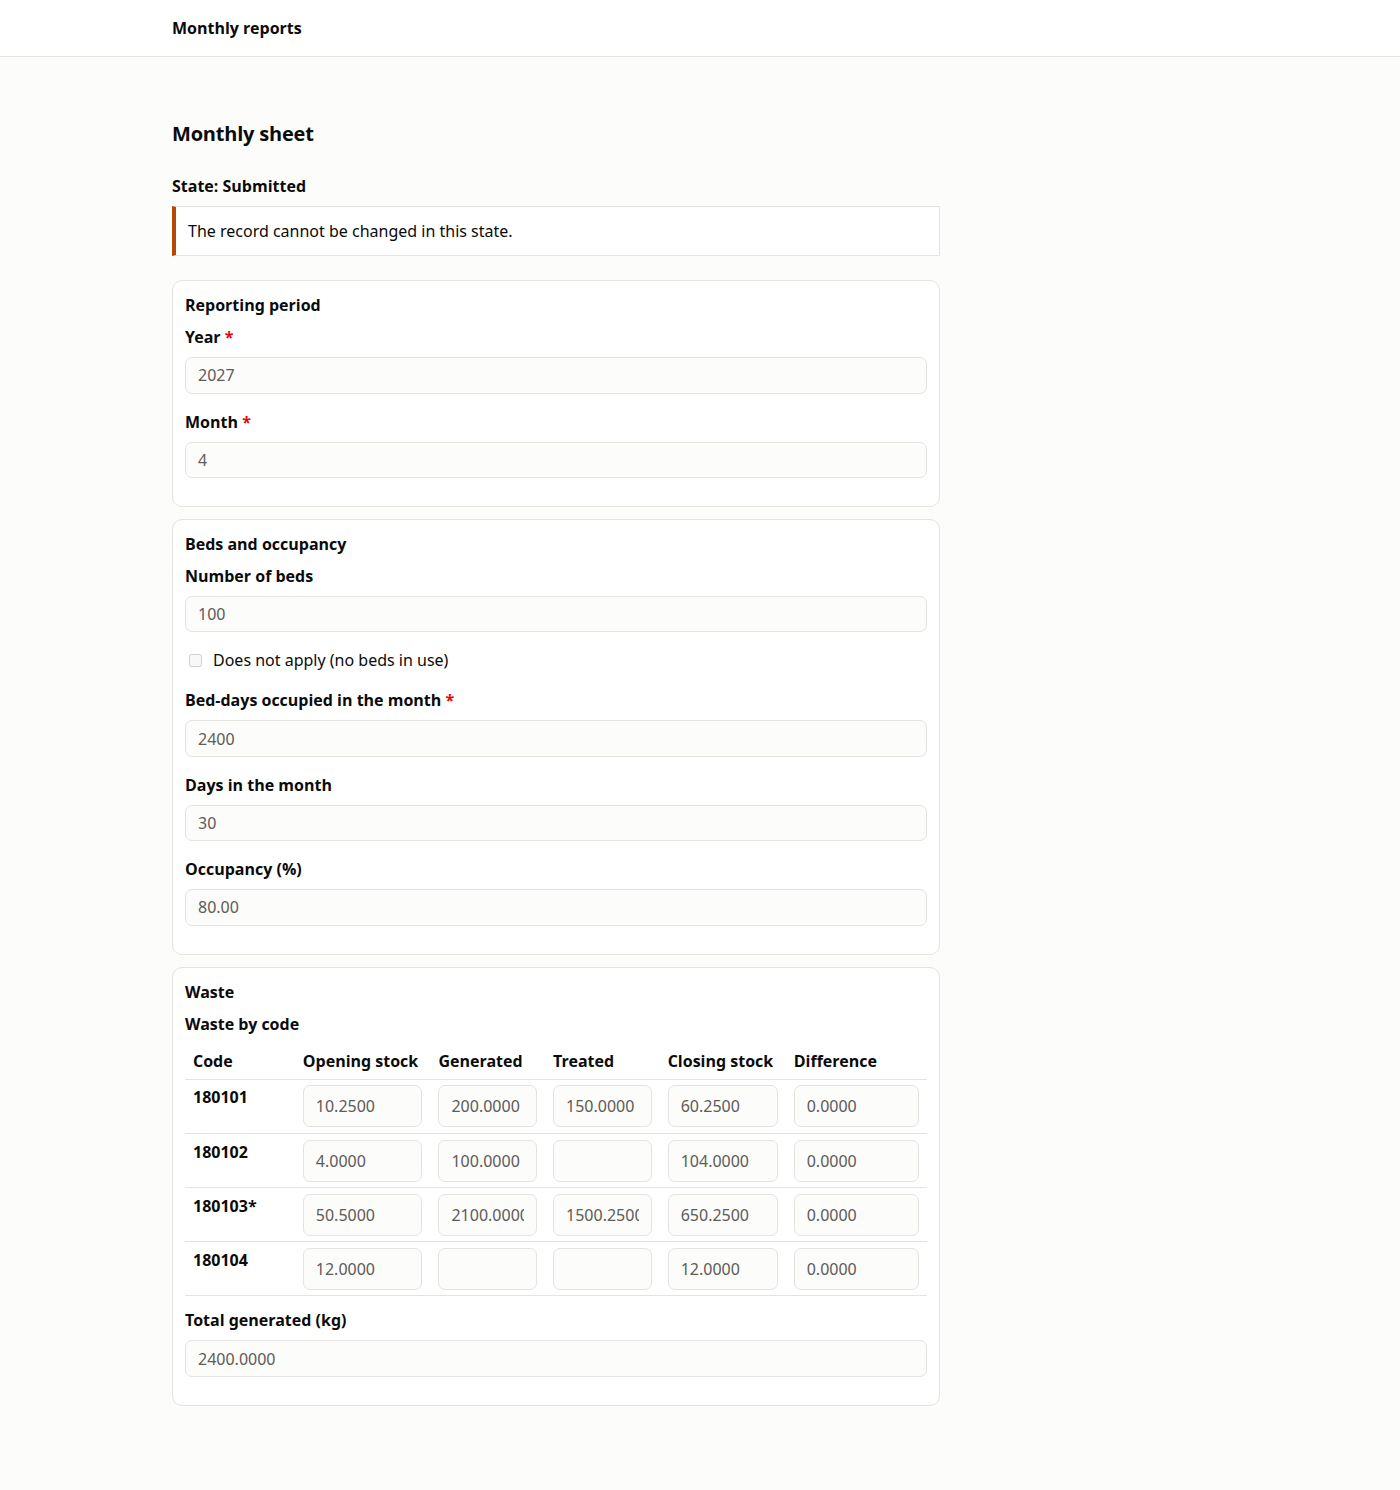
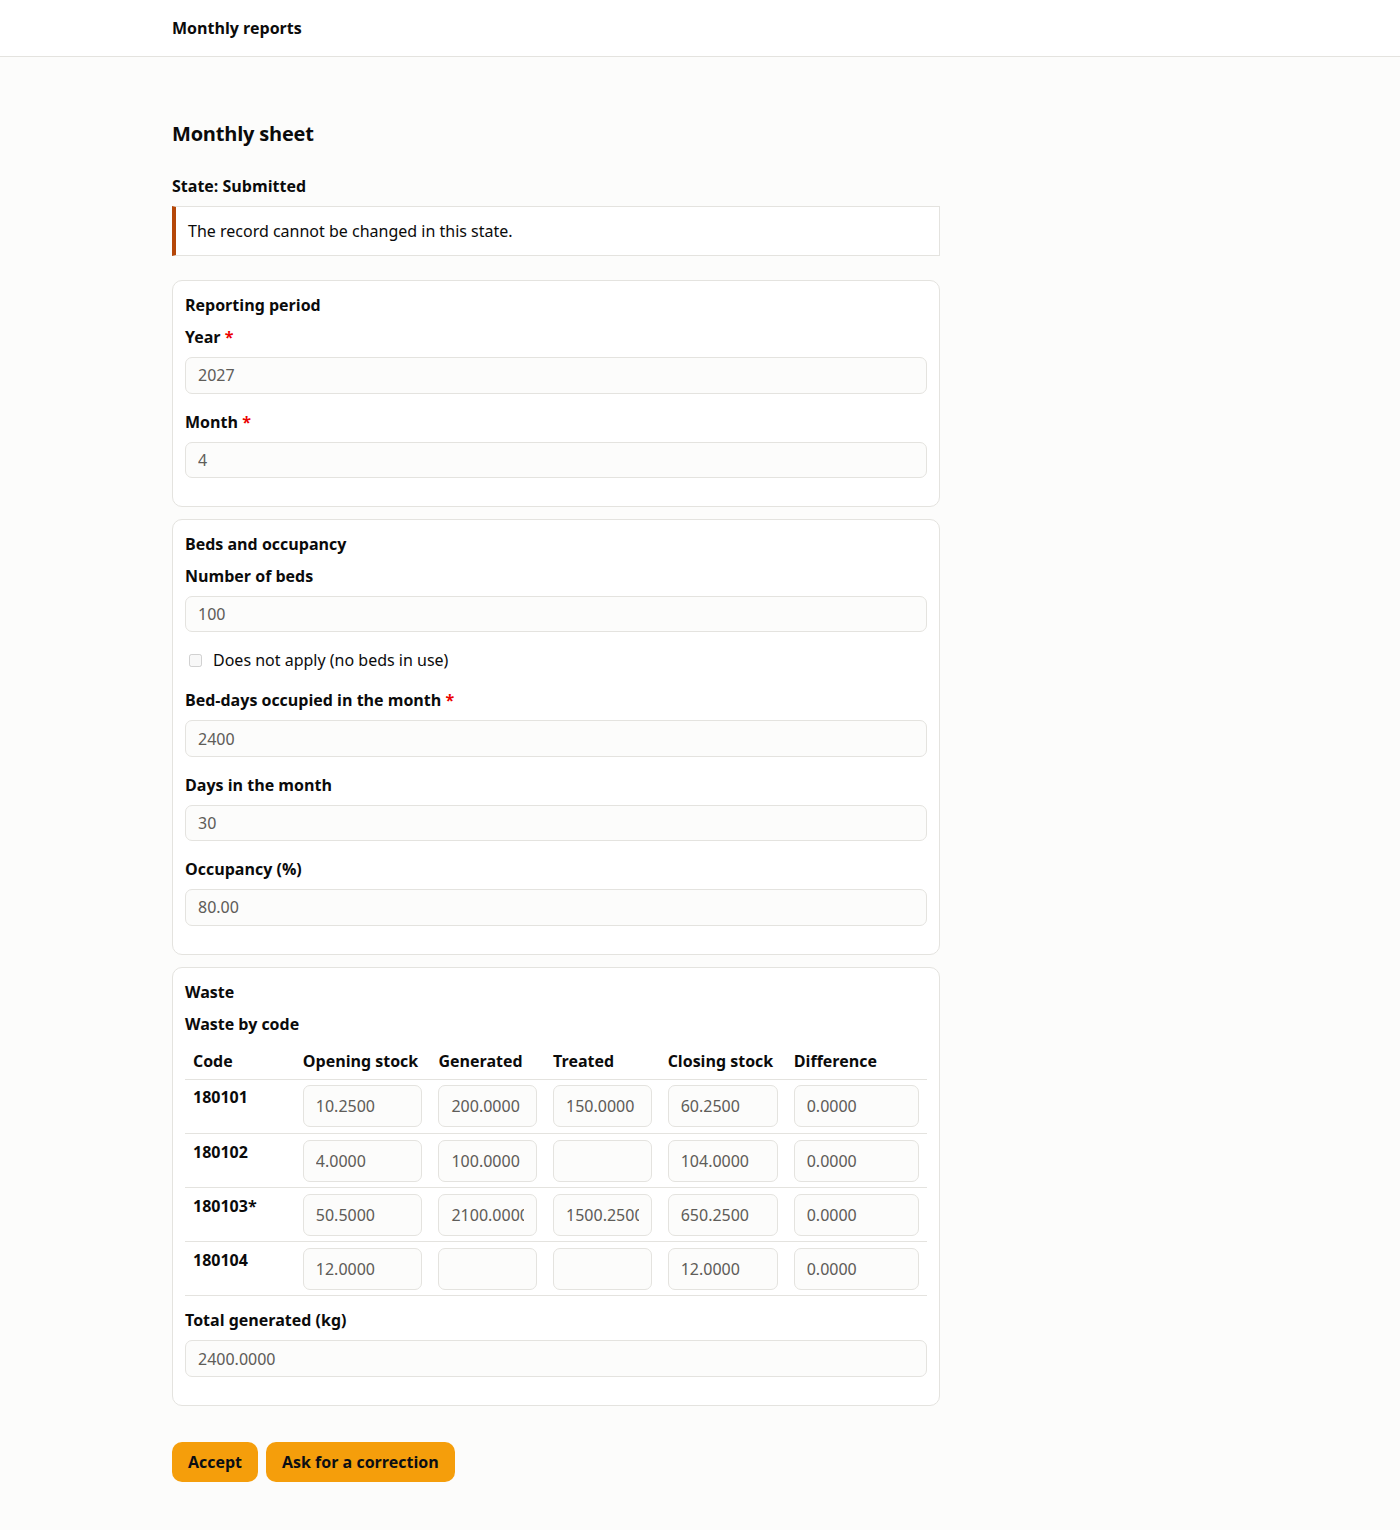
docs(portal): sections with an Active when in a form bound to a model, closed rows in a listing, the submitted sheet with Accept and Ask for a correction

Changed region(s): [[0.1229, 0.3396, 0.645, 0.9879], [0.1229, 0.0617, 0.3686, 0.3087], [0.1229, 0.0, 0.215, 0.0309]]

diff --git a/tests/test_content.py b/tests/test_content.py
@@ -384,7 +384,7 @@ class Content(unittest.TestCase):
         source = (PORTAL / 'sites/model-forms.md').read_text()
         for shot in ('forms-model-setting', 'forms-model-builder', 'forms-model-lines-edit', 'forms-model-sheet',
                      'forms-model-problems', 'forms-model-comment', 'forms-model-submitted', 'forms-model-listing',
-                     'forms-model-dialog'):
+                     'forms-model-dialog', 'forms-model-section', 'forms-model-section-edit'):
             self.assertIn(f'portal-{shot}.png', source, shot)
         for word in ('kubectl', 'helm', 'PORTAL_', 'git', 'Git', 'commit', 'branch', 'repositor', 'Hub', 'Postgres'):
             self.assertIsNone(re.search(rf'\b{word}', source), word)

diff --git a/src/content/docs/portal/sites/model-forms.md b/src/content/docs/portal/sites/model-forms.md
@@ -14,7 +14,9 @@ A person opens the form from a page, from a [listing](#open-a-record), or at its
 ![The monthly sheet form for May: panels Reporting period, Beds and occupancy and Waste. Days in the month and Occupancy are grey, filled in by the portal. A grid has a row for each waste code, with Opening stock, Generated, Treated, Closing stock and Difference. Under the Closing stock of 180103* a red message says the sheet has a deficit of 1189.7500 kg.](../../../../assets/screenshots/portal-forms-model-sheet.png)
 
 - **Figures the model calculates** are grey and cannot be typed in. They change as the person types: here the days in the month, the occupancy, each row's difference and the total.
-- **A field that does not apply** is hidden, or shown but off, as the model says. A value typed into it is cleared. In the grid, a cell can be off on one row and on in another: the treated cell of a waste code that is not treated is off.
+- **A field that does not apply** is hidden, or shown but off, as the model says. A value typed into it is cleared. The same goes for a whole section that carries a condition ([see below](#make-a-form-for-a-model)):
+
+  ![The monthly sheet with Does not apply ticked: Why it does not apply is asked for and the Waste section is gone, with its grid and total.](../../../../assets/screenshots/portal-forms-model-section.png) In the grid, a cell can be off on one row and on in another: the treated cell of a waste code that is not treated is off.
 - **A field that is asked for** has a star. It may be asked for at every save, or only when the record is submitted; the star is the same.
 - **A field the person may not change** is grey, for them only. Another person may change it.
 - **A message** shows under the field, or under the grid cell, once the person has touched it, and under all of them once they have tried to save. A form just opened does not fill up with errors.
@@ -60,7 +62,15 @@ Administrators bind a form on [Forms](/portal/console/forms/#build-a-form). **Ne
 
 4. **Who can use it** sets who may open the form. A person who may not send the form but may see or change the model's records may still open it, to read or to change a record.
 
+5. **Show a section on a condition.** A panel, a fieldset, a well or a tab can say when it applies. In its settings, **Active when** takes a condition over the model's fields, such as `no_beds_in_use != true`: the section is shown only while it is true, and what is in it is not asked for and not kept while it is false. The field appears among the settings only for a form bound to a model.
+
+   ![The settings of the Waste panel: its title, Active when with the condition no_beds_in_use != true, and its key.](../../../../assets/screenshots/portal-forms-model-section-edit.png)
+
+   The condition belongs to the fields in the section, so it holds wherever they are written: in another form, in a listing's dialog, through the API. Two forms cannot put one field under different conditions, and a step of a step-by-step form cannot have one (put it on a section inside the step). A condition that cannot be worked out counts as false.
+
 A form has one grid, and a form bound to a model is not filled in offline and keeps no drafts of its own: the record is saved as a draft record instead.
+
+A bound form can go step by step: each panel at the top is a step, what was written on one step is kept on the next, and **Save** and the model's moves are the form's own buttons, below the steps, as for any bound form.
 
 Each model also has a form of its own, `model-<id>`, made for it: every field of the model, calculated ones read-only, and the grid of its lines. It works as a form you bind yourself.
 

diff --git a/src/content/docs/portal/developer/forms.md b/src/content/docs/portal/developer/forms.md
@@ -199,7 +199,8 @@ components:
 - A field is a component whose `key` is a field of the model: the loader refuses any other key on an input component. Its type may be any the form takes; the model, not the component, says what is required, active and read-only, and a `required` set on the component is ignored. A form bound to a model needs no submit button.
 - `lines` is a component for the grid of the model's lines (its `lines` setting): at most one a form, and only in a form bound to a model whose model has lines. `lineColumns` lists 1 to 40 columns, in order: `field` is a field of the line model, never the link back to the record; `label` is the text of the heading, in the form's language and translated like any label (the field's own label when left out); `width` is 4 to 80 characters.
 - The page runs `evaluateAggregate`, the code the server runs, on every change, and asks `POST /_portal/api/data/<model>/evaluate` for what depends on other records. It saves with `POST` or `PATCH` on `/_portal/api/data/<model>` (the header's fields and `lines: [...]` in one body) and moves with `POST /_portal/api/data/<model>/<id>/transition`.
-- `offline: true` is refused on a form bound to a model, and the form keeps no drafts.
+- A panel, a fieldset or a well may carry `activeWhen: <CEL>`, and so may a tab of a `tabs` component (`{ label, key, activeWhen, components }`): a condition over the model's fields, at most 2,000 characters. The loader gives it to the fields the section holds: each such field's `activeWhen` becomes `(its own) && (the section's)`, and a grid's columns get it with the header's names written `parent.<name>`. So the portal enforces it on every path (a value sent for an inactive field is refused, a stored one is cleared, none is required), and the models the portal runs differ from the model files. It is refused on a form with no model (`section_unbound`), on a step of a `wizard` (`section_wizard`), when it does not hold over the model's fields (`section_condition`), and when another form puts the same field under a different condition (`section_conflict`).
+- `offline: true` is refused on a form bound to a model, and the form keeps no drafts. `display: wizard` works: each top-level panel is a step.
 - Each model's own form `model-<id>` is bound to the model, with a `lines` component for the model's lines.
 
 ## Fields from an app

diff --git a/src/content/docs/portal/sites/listings.md b/src/content/docs/portal/sites/listings.md
@@ -40,7 +40,7 @@ A search box shows when the model has searchable fields. Sortable columns sort w
 - Everyone sees only the records they may see: their own, where that is all they may see.
 - Someone who may neither see the records nor add any sees nothing of the listing.
 - Adding, editing and deleting are offered only to people signed in, never to visitors.
-- A row that the model's [lock](/portal/sites/data-models/) holds closed, such as a sheet of a year that has ended, has **Open** only. The rows a search, a sort or **Load more** brings in later show **Edit** and **Delete**, and the portal refuses the change there.
+- A row that the model's [lock](/portal/sites/data-models/) holds closed, such as a sheet of a year that has ended, has **Open** only: also the rows a search, a sort or **Load more** brings in later, which the page asks the portal about.
 - Values show as text; dates and times in the person's own time; web addresses as links only when they are http, https or mailto.
 
 **Open** shows a record's details below the list, with the title of the records it links to when the person may see them. Its address can be shared: `?p_<placement id>_record=<record id>`. Search engines are told not to keep such addresses.
